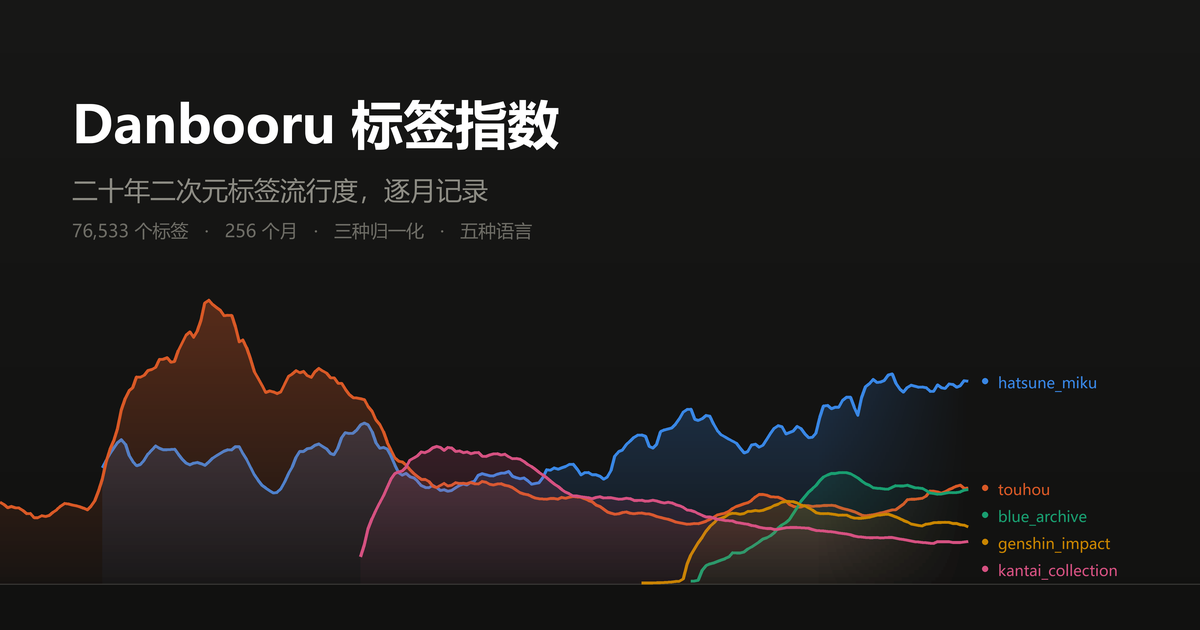
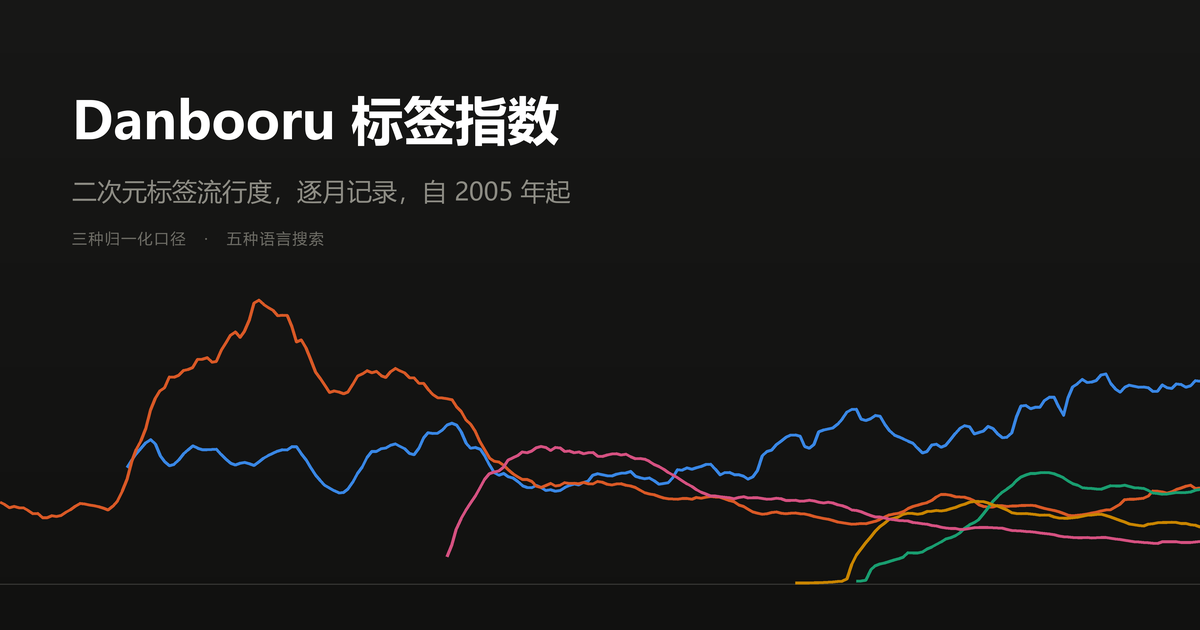
feat(og): strip the card to lines, and fix two control-row details
The card drops the gradient fills, the end dots and the end labels. What
is left is the typography and five lines bleeding off both edges, which
is what a preview at thumbnail size can actually carry -- the labels
were unreadable there and the dots marked positions nobody could read
off anyway. The three text lines now step in size, weight and colour
together, and the bottom one is letter-spaced so it reads as a caption
rather than a smaller sentence.

The copy loses every figure a refresh moves. A card is cached by every
service that ever scraped it, so "76,533 tags" goes stale and stays
stale; "three normalisations, five languages" does not.

Also: the smoothing slider sat 4px shorter than the segmented buttons
beside it -- same font, 3px of vertical padding against their 5px.

And the mobile legend is one sideways-scrolling row instead of a grid
that grows downwards. Eight tags used to push the readout past a third
of the screen and shove the chart down with it; its height no longer
depends on the selection. The category label is what the row sheds: the
swatch and the name already identify a series.

Claude-Session: https://claude.ai/code/session_017cUNqTvHSuQjG6rRe2xNyB

diff --git a/web/index.html b/web/index.html
@@ -228,7 +228,7 @@
      shows the effect as it happens. */
   .slide {
     display: inline-flex; align-items: center; gap: 8px; flex: none;
-    border: 1px solid var(--hairline); border-radius: 6px; padding: 3px 9px 3px 10px;
+    border: 1px solid var(--hairline); border-radius: 6px; padding: 5px 9px 5px 10px;
     font-size: 12.5px; color: var(--text-muted); background: var(--surface-1);
   }
   .slide b { color: var(--text-primary); font-weight: 560; min-width: 3.6em; text-align: right; }
@@ -325,9 +325,19 @@
     .seg button { padding: 6px 9px; font-size: 12px; }
     .when { min-width: 72px; padding: 6px 9px; }
     .when b { font-size: 12.5px; }
-    .series { grid-template-columns: 1fr 1fr; padding: 5px 6px; align-content: start; }
-    .s { padding: 5px; gap: 6px; }
-    .s .n, .s .v { font-size: 12px; }
+    .series {
+      display: flex; flex-wrap: nowrap; overflow-x: auto; overflow-y: hidden;
+      overscroll-behavior-x: contain; align-items: center; gap: 10px; padding: 5px 8px;
+      scrollbar-width: none;
+    }
+    .series::-webkit-scrollbar { display: none; }
+    .s { flex: none; padding: 3px 4px; gap: 5px; }
+    .s .main { flex: none; }
+    .s .n, .s .v { font-size: 11.5px; }
+    /* The category is what the row can afford to lose: the colour swatch and
+       the name already identify the series, and the tag list in the sidebar
+       says which category each preset is. */
+    .s .sub { display: none; }
     .plot { padding: 4px 3px 2px; }
 
     /* A time series wants to be wider than tall. Left to fill a portrait phone
@@ -336,7 +346,7 @@
        to the readout, which drew a 200px panel around 60px of labels; it goes to
        the comparison list now, which is content rather than a stretched box. */
     .plot { flex: 0 0 auto; height: min(42dvh, 68vw); }
-    .readout { flex: none; max-height: 34dvh; }
+    .readout { flex: none; }
     .app { flex: 1 1 auto; border-bottom: 1px solid var(--hairline); border-radius: 0 0 10px 10px; margin-bottom: 14px; }
     .main { flex: none; }
     .side { flex: 1 1 auto; border-top: 1px solid var(--hairline); }
@@ -350,15 +360,11 @@
        something come first. It stays reachable in the page's metadata. */
     .stamp { display: none; }
   }
-  @media (max-width: 380px) {
-    .series { grid-template-columns: 1fr; }
-  }
   /* Landscape phones: vertical space is the scarce axis, so shed chrome height. */
   @media (max-height: 520px) {
     .bar { padding: 6px 10px; }
     #q { padding: 6px 10px; }
     .ctl { padding: 6px 9px; }
-    .readout { max-height: 40dvh; }
     .series { padding: 4px 6px; }
     .plot { flex: 1 1 auto; height: auto; }
   }

diff --git a/scripts/make_og_image.py b/scripts/make_og_image.py
@@ -31,7 +31,7 @@ import tempfile
 from pathlib import Path
 
 import duckdb
-from PIL import Image, ImageChops, ImageDraw, ImageFont
+from PIL import Image, ImageDraw, ImageFont
 
 from _paths import INDEX_DIR
 
@@ -54,47 +54,46 @@ SERIES = [
 ]
 
 PLOT_TOP, PLOT_BOTTOM = 300, 584
-LABEL_GUTTER = 232   # right-hand strip the curves stop short of, for end labels
 
 # Slug is the file suffix and the site's sub-path; None means the root page.
 LANGS = {
     "en": {
         "slug": None,
         "title": "Danbooru Tag Index",
-        "lead": "Twenty years of anime tag popularity, month by month",
-        "meta": "{tags} tags   ·   {months} months   ·   three normalisations   ·   five languages",
+        "lead": "Anime tag popularity, month by month, since 2005",
+        "meta": "three normalisations   ·   searchable in five languages",
         "fonts": None,
         "title_size": 56,
     },
     "zh_hans": {
         "slug": "zh-hans",
         "title": "Danbooru 标签指数",
-        "lead": "二十年二次元标签流行度，逐月记录",
-        "meta": "{tags} 个标签   ·   {months} 个月   ·   三种归一化   ·   五种语言",
+        "lead": "二次元标签流行度，逐月记录，自 2005 年起",
+        "meta": "三种归一化口径   ·   五种语言搜索",
         "fonts": ("msyh.ttc", "msyhbd.ttc"),
         "title_size": 52,
     },
     "zh_hant": {
         "slug": "zh-hant",
         "title": "Danbooru 標籤指數",
-        "lead": "二十年二次元標籤流行度，逐月記錄",
-        "meta": "{tags} 個標籤   ·   {months} 個月   ·   三種歸一化   ·   五種語言",
+        "lead": "二次元標籤流行度，逐月記錄，自 2005 年起",
+        "meta": "三種歸一化口徑   ·   五種語言搜尋",
         "fonts": ("msjh.ttc", "msjhbd.ttc"),
         "title_size": 52,
     },
     "ja": {
         "slug": "ja",
         "title": "Danbooru タグ指数",
-        "lead": "20年分のタグ人気度を、月ごとに",
-        "meta": "{tags} タグ   ·   {months} ヶ月   ·   3つの正規化   ·   5言語",
+        "lead": "タグ人気度の推移を、2005年から月ごとに",
+        "meta": "3つの正規化   ·   5言語で検索",
         "fonts": ("YuGothR.ttc", "YuGothB.ttc"),
         "title_size": 50,
     },
     "ko": {
         "slug": "ko",
         "title": "Danbooru 태그 지수",
-        "lead": "20년간의 태그 인기도, 월 단위로",
-        "meta": "{tags}개 태그   ·   {months}개월   ·   3가지 정규화   ·   5개 언어",
+        "lead": "태그 인기도의 흐름, 2005년부터 월 단위로",
+        "meta": "3가지 정규화   ·   5개 언어 검색",
         "fonts": ("malgun.ttf", "malgunbd.ttf"),
         "title_size": 52,
     },
@@ -205,44 +204,30 @@ def backdrop() -> Image.Image:
     return column.resize((WIDTH * SCALE, HEIGHT * SCALE)).convert("RGBA")
 
 
-def area_mask(height_px: int, fade_from: int, fade_to: int) -> Image.Image:
-    """Alpha for the area fills: heavy at the curve, gone by the baseline.
+def tracked(draw: ImageDraw.ImageDraw, xy, text: str, font, fill, spacing: float) -> None:
+    """Draw with letter-spacing, which Pillow has no setting for.
 
-    The horizontal term matters as much as the vertical one. Closing each fill
-    to the baseline at its last month leaves a vertical wall down the right of
-    the plot -- a hard edge that reads as a chart border nobody drew. Fading the
-    last stretch to nothing lets the areas end without one, while the lines stay
-    at full strength so the end labels still mark a real position.
+    Only the bottom line uses it. Opening up a small line of secondary text is
+    what separates it from the sentence above rather than making it a smaller
+    copy of one.
     """
-    column = Image.new("L", (1, height_px))
-    for y in range(height_px):
-        t = y / max(1, height_px - 1)
-        column.putpixel((0, y), round(255 * (0.34 * (1 - t) + 0.03 * t)))
-    mask = Image.new("L", (WIDTH * SCALE, HEIGHT * SCALE), 0)
-    mask.paste(column.resize((WIDTH * SCALE, height_px)), (0, PLOT_TOP * SCALE))
-
-    row = Image.new("L", (WIDTH, 1), 255)
-    for x in range(fade_from, WIDTH):
-        t = min(1.0, (x - fade_from) / max(1, fade_to - fade_from))
-        row.putpixel((x, 0), round(255 * (1 - t)))
-    return ImageChops.multiply(mask, row.resize((WIDTH * SCALE, HEIGHT * SCALE)))
+    x, y = xy
+    for ch in text:
+        draw.text((x, y), ch, font=font, fill=fill)
+        x += draw.textlength(ch, font=font) + spacing
 
 
-def render(spec: dict, curves, n_months: int, n_tags: int, ttf: Path, font_dir: Path, out_dir: Path) -> Path:
+def render(spec: dict, curves, n_months: int, ttf: Path, font_dir: Path, out_dir: Path) -> Path:
     sized = Faces(ttf, cjk_faces(spec["fonts"], font_dir))
     s = SCALE
 
     image = backdrop()
     draw = ImageDraw.Draw(image)
 
-    plot_right = WIDTH - LABEL_GUTTER
     peak = max(max(smooth(curves[slug])) for slug, _, _ in SERIES)
-    ramp = area_mask((PLOT_BOTTOM - PLOT_TOP) * s, plot_right - 150, plot_right)
-
     draw.line([(0, PLOT_BOTTOM * s), (WIDTH * s, PLOT_BOTTOM * s)], fill=FAINT, width=1 * s)
 
-    ends = []
-    for slug, label, colour in SERIES:
+    for slug, _label, colour in SERIES:
         raw = curves[slug]
         # Months before the tag existed are zeros, and drawing them lays a flat
         # rule along the baseline that reads as data. The start comes from the
@@ -251,56 +236,18 @@ def render(spec: dict, curves, n_months: int, n_tags: int, ttf: Path, font_dir: 
         start = next((i for i, v in enumerate(raw) if v > 0), len(raw))
         values = smooth(raw)
         points = [
-            (((i / (n_months - 1)) * plot_right) * s,
+            (((i / (n_months - 1)) * WIDTH) * s,
              (PLOT_BOTTOM - ((values[i] / peak) ** 0.5) * (PLOT_BOTTOM - PLOT_TOP)) * s)
             for i in range(start, len(values))
         ]
-        if len(points) < 2:
-            continue
+        if len(points) > 1:
+            draw.line(points, fill=colour, width=3 * s, joint="curve")
 
-        fill = Image.new("RGBA", image.size, (0, 0, 0, 0))
-        ImageDraw.Draw(fill).polygon(
-            [(points[0][0], PLOT_BOTTOM * s), *points, (points[-1][0], PLOT_BOTTOM * s)],
-            fill=(*colour, 255),
-        )
-        fill.putalpha(ImageChops.multiply(fill.getchannel("A"), ramp))
-        image = Image.alpha_composite(image, fill)
-        draw = ImageDraw.Draw(image)
-
-        draw.line(points, fill=colour, width=3 * s, joint="curve")
-        ends.append((points[-1][1] / s, label, colour))
-
-    # End labels, the site's own device for naming a series. Separating them by
-    # pushing down alone drives the lowest ones off the canvas -- four of these
-    # five finish within a few pixels of each other -- so the run is pushed down,
-    # then shifted back up as a block and re-separated upwards if it overflows.
-    ends.sort(key=lambda e: e[0])
-    gap, lo, hi = 27, PLOT_TOP - 8, PLOT_BOTTOM + 8
-    ys = []
-    for y, _, _ in ends:
-        ys.append(max(y, ys[-1] + gap) if ys else y)
-    if ys and ys[-1] > hi:
-        ys = [y - (ys[-1] - hi) for y in ys]
-        for i in range(len(ys) - 2, -1, -1):
-            ys[i] = min(ys[i], ys[i + 1] - gap)
-        ys = [max(y, lo) for y in ys]
-
-    label_font = sized(15, 500)   # tag slugs are Latin in every language
-    for (_, label, colour), y in zip(ends, ys):
-        draw.ellipse(
-            [((plot_right + 14) * s, (y - 3) * s), ((plot_right + 20) * s, (y + 3) * s)],
-            fill=colour,
-        )
-        draw.text(((plot_right + 30) * s, (y - 9) * s), label, font=label_font, fill=colour)
-
-    draw.text((MARGIN * s, 88 * s), spec["title"], font=sized(spec["title_size"], 680), fill=TEXT)
-    draw.text((MARGIN * s, 172 * s), spec["lead"], font=sized(26, 400), fill=MUTED)
-    draw.text(
-        (MARGIN * s, 218 * s),
-        spec["meta"].format(tags=f"{n_tags:,}", months=n_months),
-        font=sized(18, 450),
-        fill=DIM,
-    )
+    # Three steps, each a clear jump from the last -- size, weight and colour all
+    # move together, so the order to read them in is never in question.
+    draw.text((MARGIN * s, 84 * s), spec["title"], font=sized(spec["title_size"], 700), fill=TEXT)
+    draw.text((MARGIN * s, 174 * s), spec["lead"], font=sized(25, 400), fill=MUTED)
+    tracked(draw, (MARGIN * s, 228 * s), spec["meta"], sized(15, 500), DIM, 1.4 * s)
 
     name = "og.png" if spec["slug"] is None else f"og-{spec['slug']}.png"
     out = out_dir / name
@@ -311,13 +258,13 @@ def render(spec: dict, curves, n_months: int, n_tags: int, ttf: Path, font_dir: 
 
 def main() -> None:
     args = parse_args()
-    curves, n_months, n_tags = load_curves(Path(args.index_dir))
+    curves, n_months, _n_tags = load_curves(Path(args.index_dir))
     ttf = load_font(Path(args.font))
     out_dir, font_dir = Path(args.out_dir), Path(args.font_dir)
 
     wanted = [args.lang] if args.lang else list(LANGS)
     for lang in wanted:
-        out = render(LANGS[lang], curves, n_months, n_tags, ttf, font_dir, out_dir)
+        out = render(LANGS[lang], curves, n_months, ttf, font_dir, out_dir)
         print(f"{lang:8} {out}  {out.stat().st_size / 1024:.0f} KB", file=sys.stderr)
 
 
